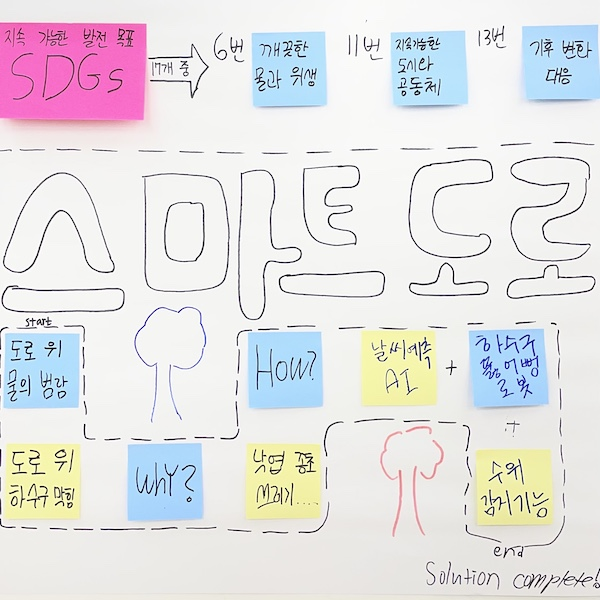
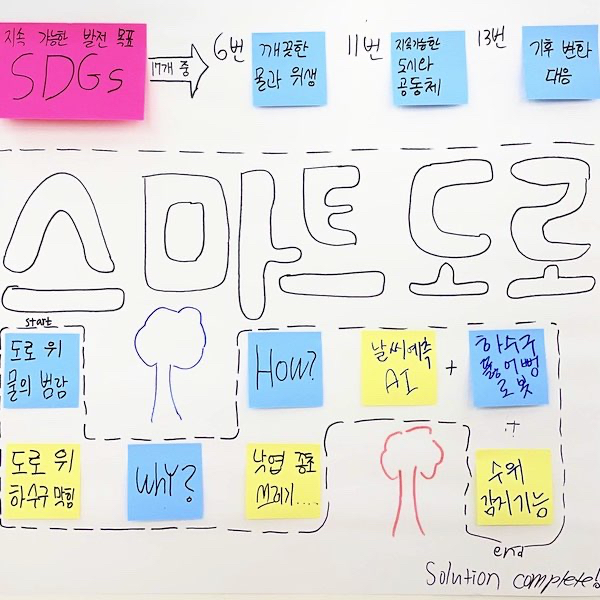
IdeaBoard 이미지 영문 번역, README 수정

diff --git a/README.en.md b/README.en.md
@@ -2,6 +2,8 @@
 
 [한국어 버전 이용 가능](./README.md)
 
+This repository only contains code written by me.
+
 ![Photo of a device we built for a demonstration. On the left side of the photo is a device for cleaning sewers, and on the right is a sensor that can measure the water level in the sewer.](README-images/FullView.jpg)
 
 Gyeonggi-do Goyang Office of Education **2025 AI Make-a-Thon** Project
@@ -16,7 +18,7 @@ Gyeonggi-do Goyang Office of Education **2025 AI Make-a-Thon** Project
 **13**: Climate Action
 
 ## Motivation for Choosing a Topic
-![The title "Smart Road" is written in large letters below the statement that it meets three of the Sustainable Development Goals. Below that, the problem analysis and solution are presented in the shape of a road, with "Water flooding the road", "Clogged drains on the road", "Why?", "Leaves, cigarette stub, garbage", "How?", and "Weather prediction AI + Sewer cleaning robot + Water level detection robot".](README-images/IdeaBoard.jpg)
+![The title "Smart Road" is written in large letters below the statement that it meets three of the Sustainable Development Goals. Below that, the problem analysis and solution are presented in the shape of a road, with "Water flooding the road", "Clogged drains on the road", "Why?", "Leaves, cigarette stub, garbage", "How?", and "Weather prediction AI + Sewer cleaning robot + Water level detection robot".](README-images/IdeaBoard.en.jpg)
 
 Today, climate change is causing more frequent rainy seasons and localized heavy rains, which are increasing the frequency of damage.<sup>2</sup>
 

diff --git a/README.md b/README.md
@@ -2,6 +2,8 @@
 
 [English Version Available](./README.en.md)
 
+본 저장소에는 본인이 작성한 코드만 포함되어 있습니다.
+
 ![시연을 위해 제작한 장치의 사진입니다. 사진의 왼쪽에는 하수구 청소를 위한 장치가, 오른쪽에는 하수구의 수위를 측정할 수 있는 센서가 있습니다.](README-images/FullView.jpg)
 
 경기도고양교육지원청 **2025 고교연합 인공지능 메이커톤** 프로젝트
